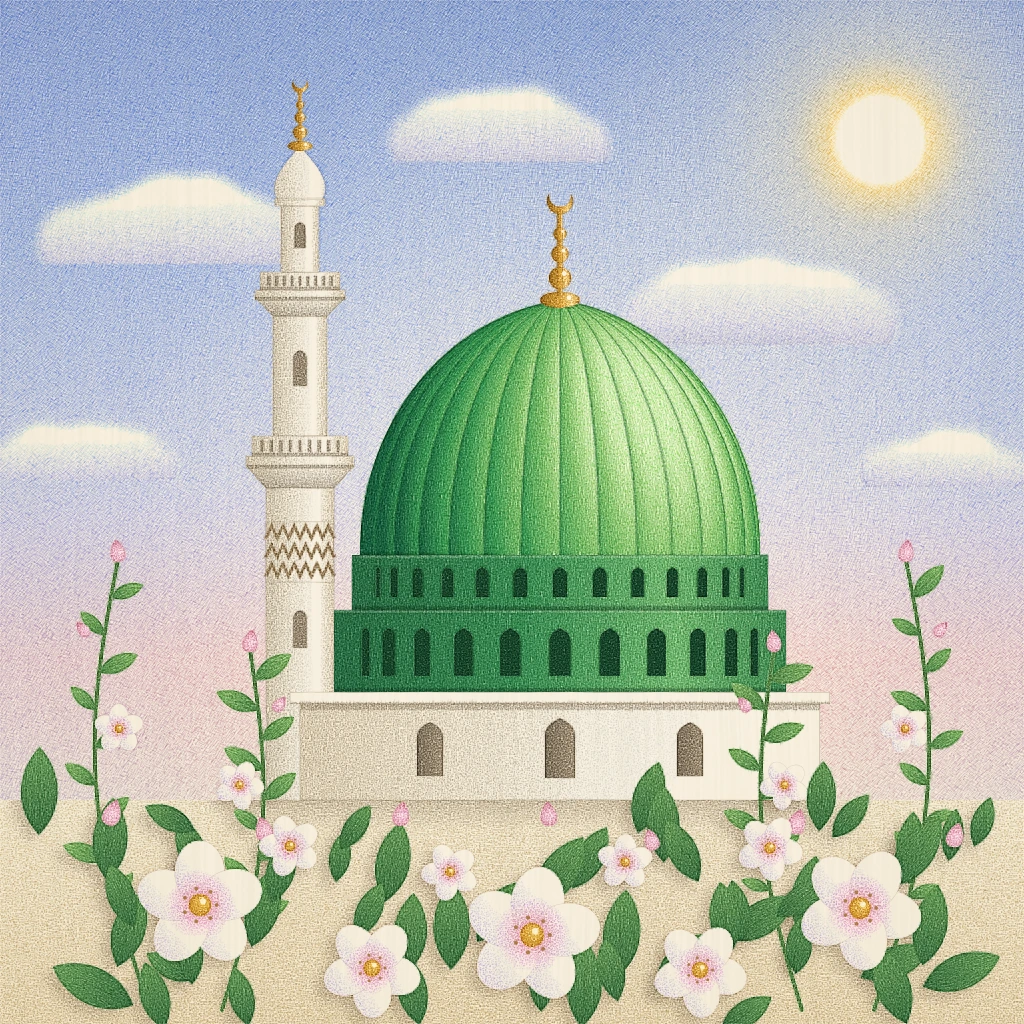
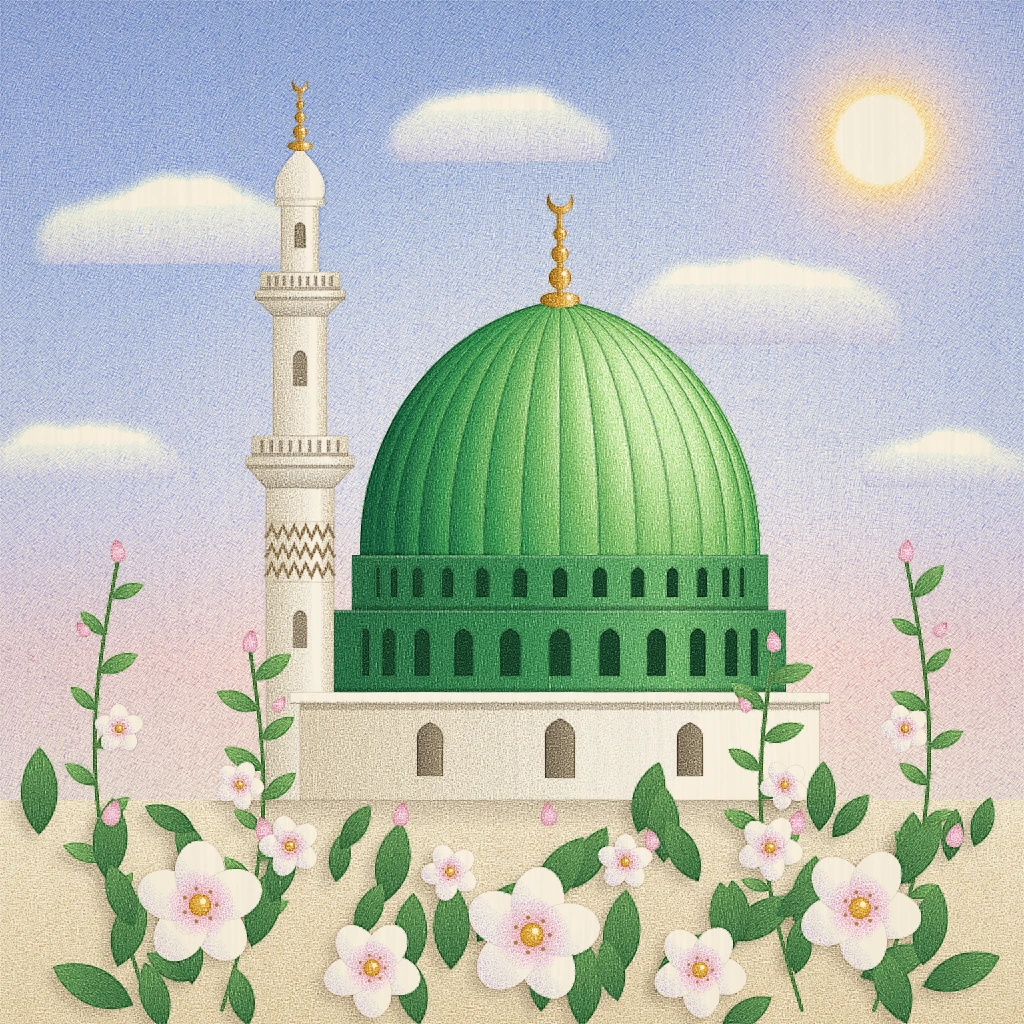
Atölye: beşinci tur çalışmalarının ara kaydı
Claude-Session: https://claude.ai/code/session_01Q8CfoBGMPN7gfLWQYpMs1J

diff --git a/atolye/stiller/S-171-akademik-yagliboya/ornek.html b/atolye/stiller/S-171-akademik-yagliboya/ornek.html
@@ -1180,6 +1180,7 @@ const H = (function () {
         const a = o.yon(x, y);
         const ca = Math.cos(a) * l / 2, sa = Math.sin(a) * l / 2;
         pts = [[x - ca, y - sa], [x + ca, y + sa]];
+        if (o.ucIcinde && !(o.icinde(x - ca, y - sa) && o.icinde(x + ca, y + sa))) continue;
       }
       let c = ornek(x, y);
       if (o.renkFn) c = o.renkFn(c, x, y, r);
@@ -1273,9 +1274,9 @@ const H = (function () {
   const R = S.rng(1710);
 
   // ------------------------------------------------------------ palet (ressamın paleti)
-  const TAS = malzeme({ rampa: [[0, '#9A8468'], [0.3, '#C2AB88'], [0.55, '#E1D1B2'], [0.8, '#F2E6CE'], [1, '#FCF5E6']], ortam: 0.24, gok: '#A9B4C8', gokGuc: 0.2 });
+  const TAS = malzeme({ rampa: [[0, '#957E62'], [0.3, '#BBA381'], [0.55, '#E0CFAE'], [0.8, '#F4E7CC'], [1, '#FFF8E8']], ortam: 0.18, gok: '#A9B4C8', gokGuc: 0.22 });
   const ALTIN = { vurgu: C('#FFF0BC'), isik: C('#E8C468'), orta: C('#BF922F'), koyu: C('#7A561B'), yansima: C('#A88B5A') };
-  const YESIL = malzeme({ rampa: [[0, '#173F2C'], [0.3, '#225E3B'], [0.55, '#2F7D45'], [0.8, '#5FA358'], [1, '#B2D383']], ortam: 0.12, gok: '#7CA6B4', gokGuc: 0.26 });
+  const YESIL = malzeme({ rampa: [[0, '#163C2B'], [0.28, '#1F5838'], [0.5, '#2C7A44'], [0.75, '#5AA257'], [0.92, '#9CCB78'], [1, '#C8E096']], ortam: 0.06, gok: '#7CA6B4', gokGuc: 0.22 });
   const YAPRAK = { koyu: C('#3A5532'), orta: C('#5F7F48'), acik: C('#B3C386') };
   const CICEK = { isik: C('#FFFDF7'), orta: C('#F7EFE6'), golge: C('#B7AEBD'), kok: C('#EFCDC2'), gobek: C('#B8A847'), ercik: C('#F3C64A'), ercikKoyu: C('#A8741C'),
     tom: C('#F6DCDC'), tomKok: C('#E9B8BC'), tomUc: C('#FFF4F1'), tomGolge: C('#B98F99'), canak: C('#5C7A45') };

diff --git a/atolye/stiller/S-198-murakka-album-sayfasi/ornek.html b/atolye/stiller/S-198-murakka-album-sayfasi/ornek.html
@@ -294,12 +294,12 @@
     const damlalar = [];
     // tekneye sırayla boya serpilir; her damla öncekileri iter
     // damlalar yalnız kenar suyu bölgesine (ve biraz içine) serpilir; yüzey tamamen dolar
-    while (damlalar.length < 2700) {
+    while (damlalar.length < 1900) {
       const x = rk() * W;
       const y = rk() * W;
       if (x > PANO.x + 34 && x < PANO.x + PANO.w - 34 && y > PANO.y + 34 && y < PANO.y + PANO.w - 34) continue;
       const t = rk();
-      damlalar.push({ x, y, r: 8.5 + rk() * 8, c: t < 0.38 ? 0 : t < 0.76 ? 1 : t < 0.87 ? 2 : t < 0.97 ? 3 : 4 });
+      damlalar.push({ x, y, r: 10 + rk() * 10, c: t < 0.38 ? 0 : t < 0.76 ? 1 : t < 0.87 ? 2 : t < 0.97 ? 3 : 4 });
     }
     // ebruyu biraz eğmek için en sonda hafif bir gelgit dalgası
     const kenarda = (x, y) => !(x > PANO.x - 2 && x < PANO.x + PANO.w + 2 && y > PANO.y - 2 && y < PANO.y + PANO.w + 2);
